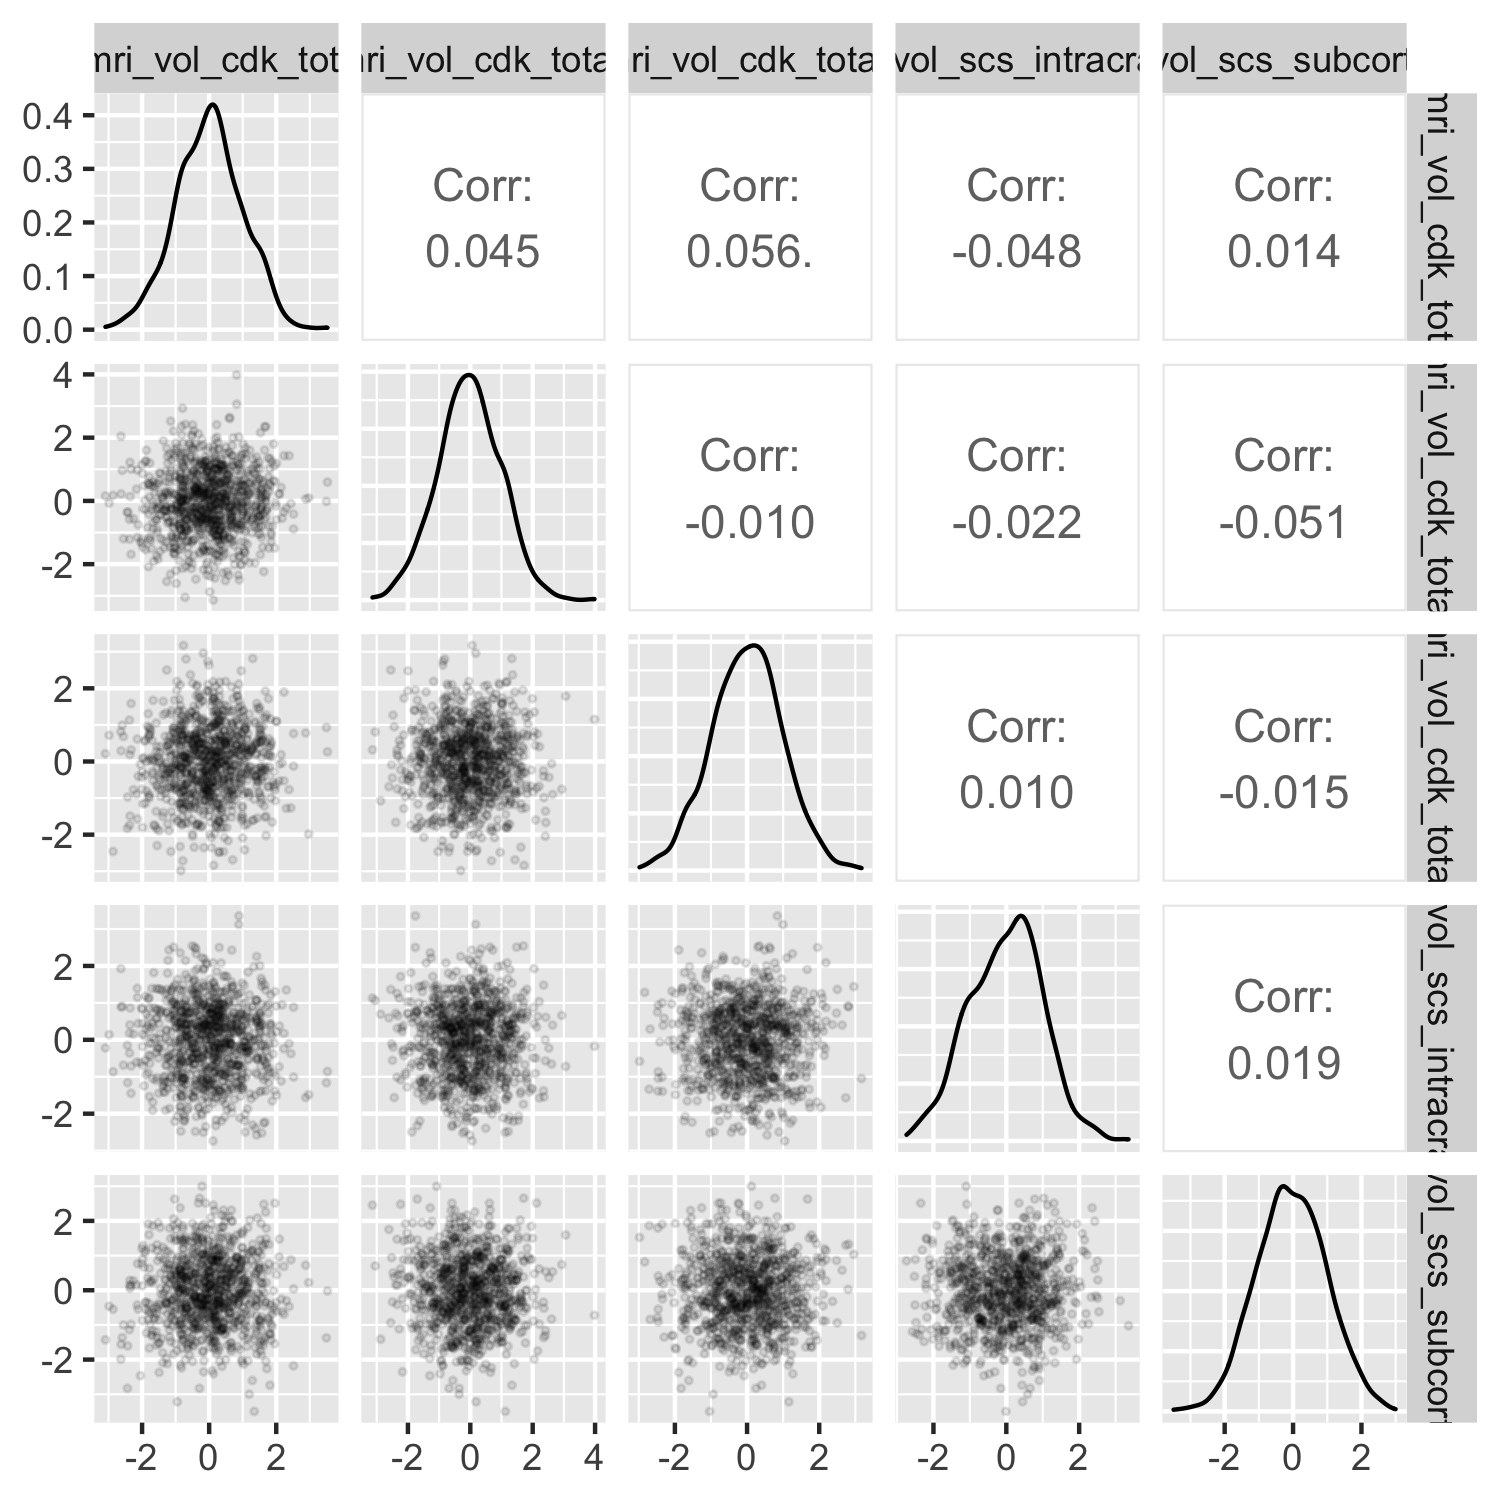
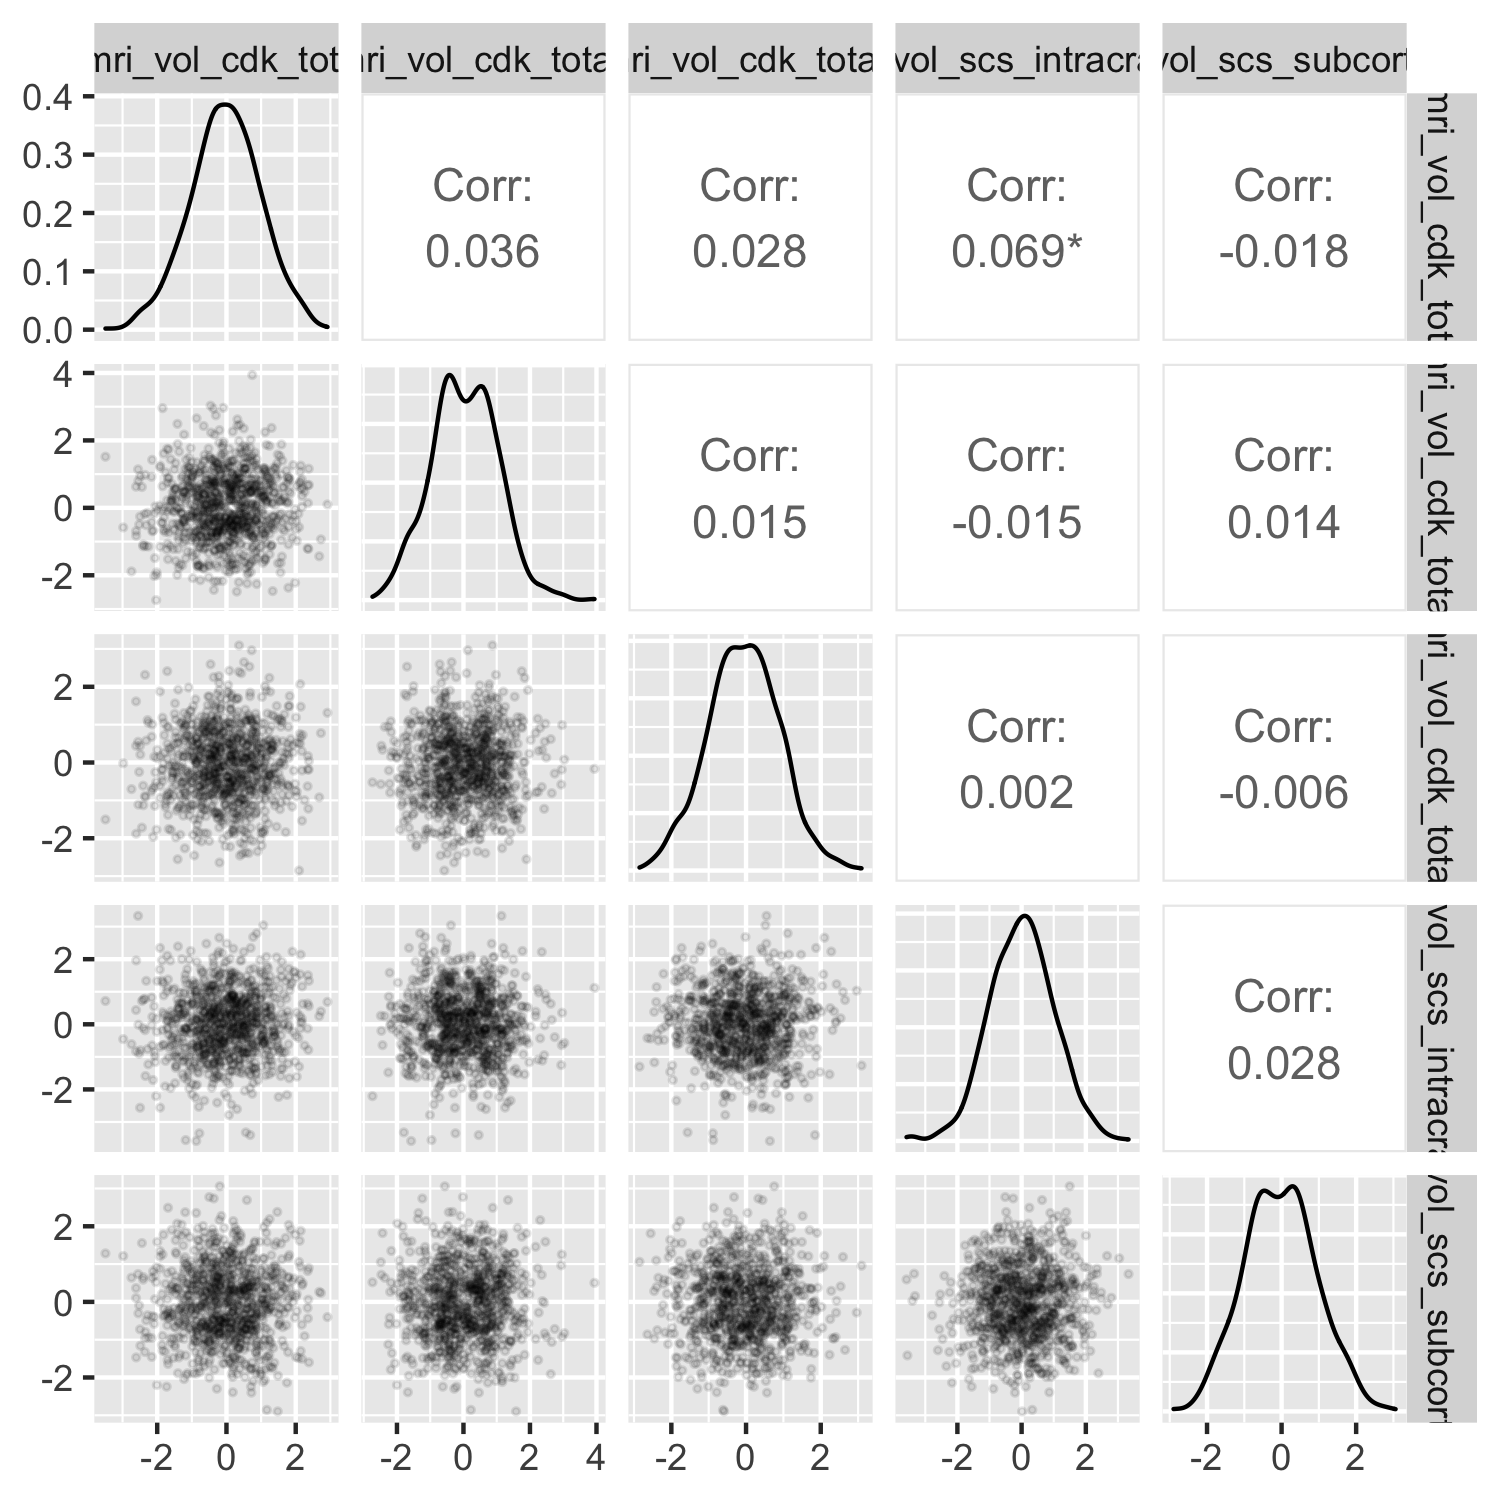
set a random seed like i'm not a hot mess

diff --git a/python/docs-examples/scatterplot-matrix.py b/python/docs-examples/scatterplot-matrix.py
@@ -5,6 +5,8 @@ import seaborn as sns
 import random
 from matplotlib.pyplot import savefig
 
+random.seed(17)
+
 f = open("../../data/abcd_smri_colnames.txt", "r")
 abcd_smri_colnames = f.readlines()
 abcd_smri_colnames = [colname.strip() for colname in abcd_smri_colnames]

diff --git a/python/docs-examples/nilearn-plotting.py b/python/docs-examples/nilearn-plotting.py
@@ -7,6 +7,8 @@ import random
 from matplotlib import pyplot as plt
 from seaborn import diverging_palette
 
+random.seed(17)
+
 destrieux_atlas = datasets.fetch_atlas_surf_destrieux()
 
 # The parcellation is already loaded into memory
